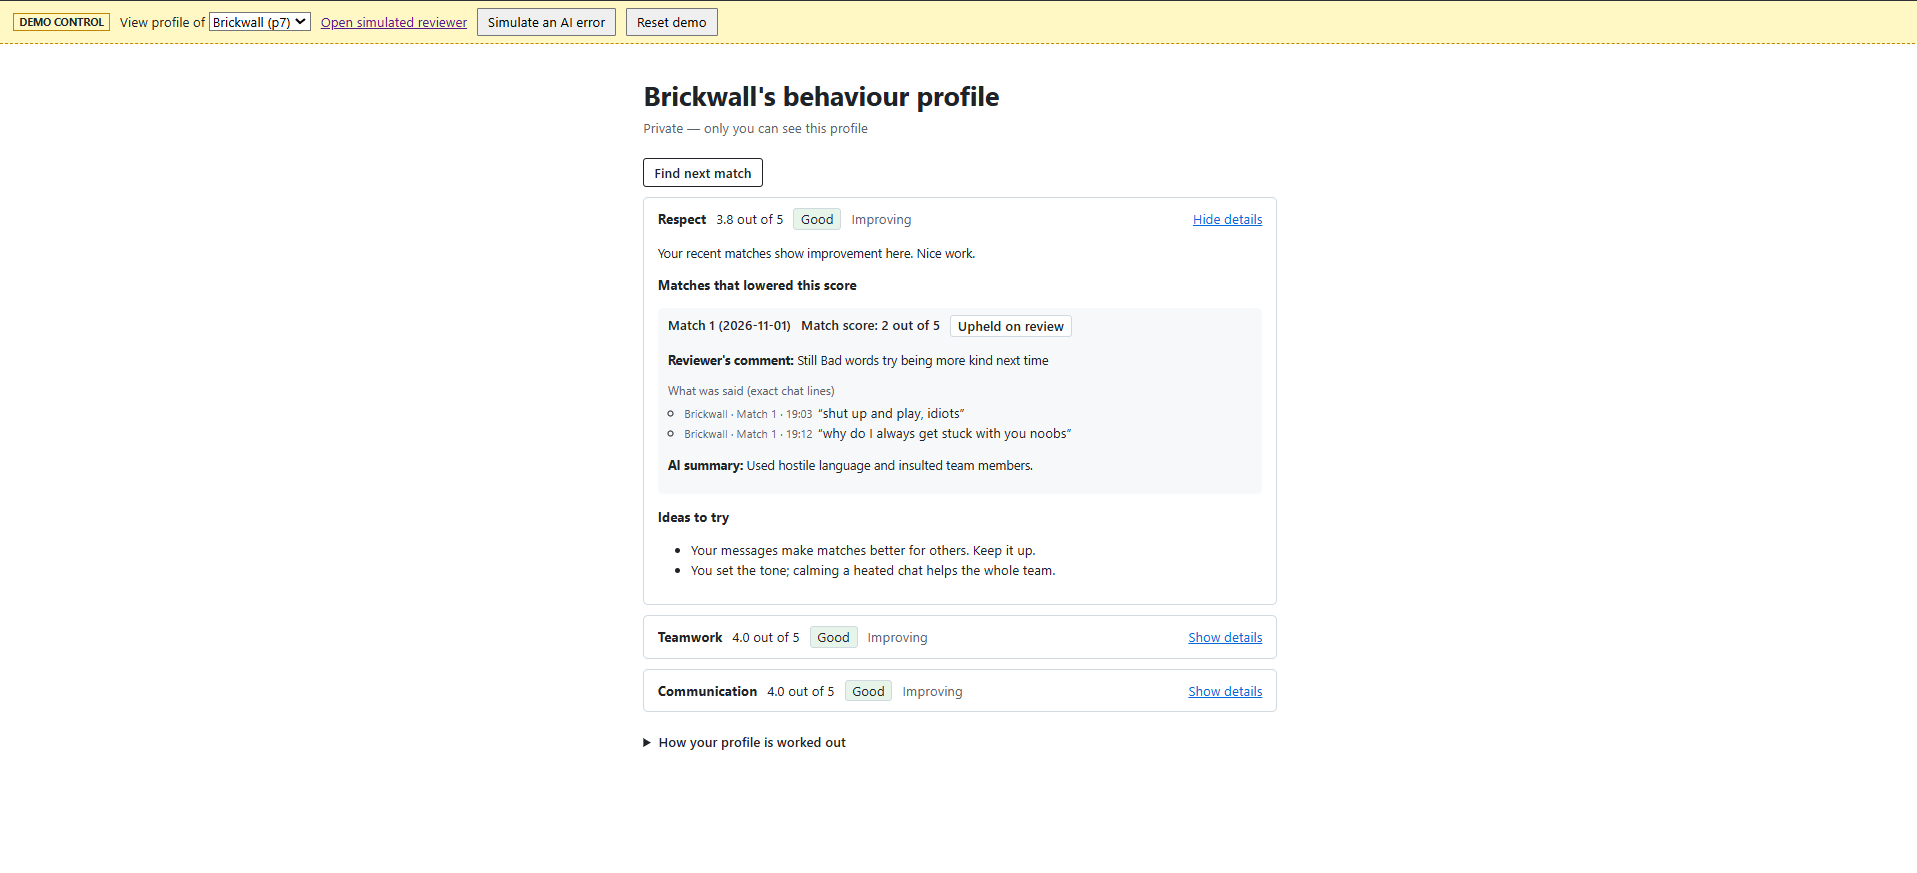
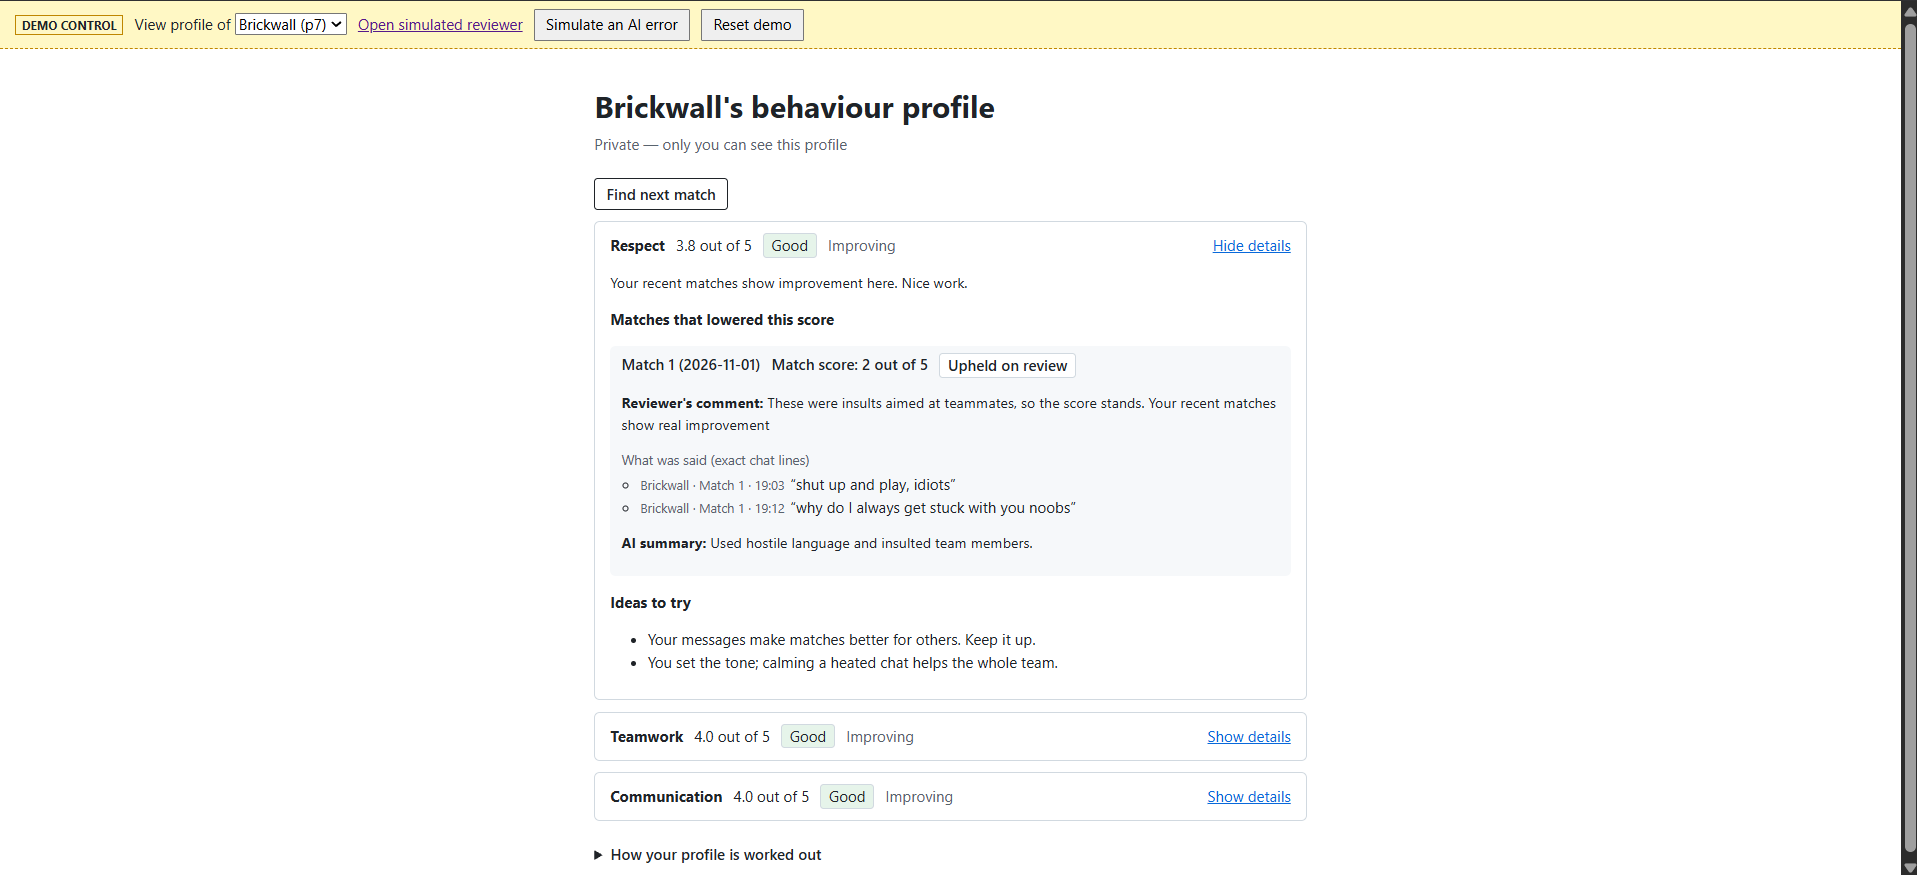
Fix copy: held-back AI scores are not sent to a reviewer; retake screenshots; add storyboards; update AI log

diff --git a/client/src/copy.ts b/client/src/copy.ts
@@ -41,8 +41,8 @@ export const copy = {
     aiSummaryLabel: "AI summary",
     underReview: (n: number) =>
       n === 1
-        ? "1 match score is with a person for review and is not counted yet."
-        : `${n} match scores are with a person for review and are not counted yet.`,
+        ? "1 match score was too uncertain to use, so it is not counted."
+        : `${n} match scores were too uncertain to use, so they are not counted.`,
     tipsHeading: "Ideas to try",
     improvingAck: "Your recent matches show improvement here. Nice work.",
   },
@@ -121,7 +121,7 @@ export const copy = {
     points: [
       "We look at your chat across your last 4 matches.",
       "Recent matches count more than older ones.",
-      "When the AI is unsure, a person checks before anything counts.",
+      "When the AI is unsure, that match score is not counted.",
       "If a match gave you a low score, you can challenge it and a person will review it.",
     ],
   },

diff --git a/server/test/profile.test.ts b/server/test/profile.test.ts
@@ -182,7 +182,7 @@ describe("challenge rules (D4)", () => {
   test("note over 200 characters is rejected", () => {
     reject({ note: "x".repeat(201) }, 400, /note is 201 characters \(max 200\)/);
   });
-  test("a match score already with a human reviewer cannot be challenged", () => {
+  test("a held-back match score cannot be challenged", () => {
     const results: MatchResultsFile = structuredClone(baseResults);
     results.matches[0].players.p2.respect.status = "needs_review";
     const r = new ChallengeStore(null).create({ playerId: "p2", dimension: "respect", matchId: "match_01", reason: "other" }, { players, results });

diff --git a/server/src/profile/challenges.ts b/server/src/profile/challenges.ts
@@ -76,7 +76,7 @@ export class ChallengeStore {
     const r = match.players[playerId]?.[dimension as Dimension];
     if (!r) return fail(404, `${playerId} did not play in ${matchId}`);
     if (r.status !== "accepted") {
-      return fail(400, "This match score is already with a human reviewer and does not count yet, so it cannot be challenged");
+      return fail(400, "This match score was held back because the AI was unsure, and it does not count, so it cannot be challenged");
     }
     if (r.score !== 1 && r.score !== 2) {
       return fail(400, `Only match scores of 1 or 2 can be challenged; this score is ${r.score}`);

diff --git a/server/src/scoring/types.ts b/server/src/scoring/types.ts
@@ -62,7 +62,7 @@ export interface DimensionProfile {
   trend: number | null; // mean(matches 3–4) − mean(matches 1–2), 1 decimal
   trendLabel: TrendLabel | null;
   contributions: MatchContribution[]; // accepted scores only
-  needsReviewCount: number; // match scores sent to human review by the validator
+  needsReviewCount: number; // match scores held back by the validator (not counted; reviewer queue planned)
   excludedCount: number; // match scores removed from aggregation (e.g. overturned on review)
 }
 

diff --git a/server/src/profile/build.ts b/server/src/profile/build.ts
@@ -32,7 +32,7 @@ export interface DimensionView {
   trend: TrendWord;
   expanded: boolean; // D7: low or declining
   loweringMatches: LoweringMatch[];
-  underReviewCount: number; // validator sent to a person: "not counted yet"
+  underReviewCount: number; // validator held back (low confidence or bad evidence): not counted; reviewer queue planned
   tips: string[]; // up to 2
   improvingAck: boolean;
 }

diff --git a/docs/build_storyboards.py b/docs/build_storyboards.py
@@ -1,0 +1,120 @@
+"""Builds the two ClearMatch storyboards from docs/screenshots/.
+Needs Pillow (pip install pillow).
+Usage, from the repo root: python docs/build_storyboards.py docs/screenshots docs"""
+import sys, os, textwrap
+from PIL import Image, ImageDraw, ImageFont, ImageChops
+
+SRC, OUT = sys.argv[1], sys.argv[2]
+# Inter if installed (Linux path), otherwise Windows Segoe UI / Arial, otherwise Pillow's default.
+FONT_CANDIDATES = {
+    "Regular":  ["/usr/share/fonts/opentype/inter/Inter-Regular.otf", "C:/Windows/Fonts/segoeui.ttf", "C:/Windows/Fonts/arial.ttf"],
+    "SemiBold": ["/usr/share/fonts/opentype/inter/Inter-SemiBold.otf", "C:/Windows/Fonts/seguisb.ttf", "C:/Windows/Fonts/arialbd.ttf"],
+    "Bold":     ["/usr/share/fonts/opentype/inter/Inter-Bold.otf", "C:/Windows/Fonts/segoeuib.ttf", "C:/Windows/Fonts/arialbd.ttf"],
+}
+def font(style, size):
+    for p in FONT_CANDIDATES[style]:
+        try: return ImageFont.truetype(p, size)
+        except OSError: pass
+    return ImageFont.load_default(size)
+F_TITLE, F_SUB, F_NUM, F_LBL, F_TXT, F_TAG = font("Bold",44), font("Regular",24), font("Bold",26), font("SemiBold",21), font("Regular",21), font("SemiBold",18)
+INK, MUTED, LINE = (27,27,27), (90,98,110), (214,220,228)
+GREEN, BLUE, AMBER, RED = (46,125,50), (21,101,192), (224,161,0), (198,40,40)
+
+def content_crop(path):
+    im = Image.open(path).convert("RGB")
+    w, h = im.size
+    px = im.load()
+    def yellowish(p): return p[0] > 245 and 235 < p[1] < 252 and 180 < p[2] < 215
+    # the demo bar (and any browser chrome above it) ends at the last yellow row near the top
+    ys = [y for y in range(min(160, h)) if yellowish(px[10, y])]
+    top = 0
+    if ys:
+        top = ys[0]
+        while top < h and (yellowish(px[10, top]) or top - ys[0] < 8): top += 1
+    top += 3  # dashed border under the bar
+    # drop a dark taskbar at the bottom
+    bottom = h
+    while bottom > top and sum(px[w//2, bottom-1]) < 300: bottom -= 1
+    # ignore a scrollbar at the right edge when finding content
+    region = im.crop((0, top, w - 24, bottom))
+    bg = Image.new("RGB", region.size, (255,255,255))
+    diff = ImageChops.difference(region, bg).convert("L").point(lambda v: 255 if v > 12 else 0)
+    box = diff.getbbox() or (0, 0, region.width, region.height)
+    pad = 28
+    box = (max(box[0]-pad,0), max(box[1]-pad,0), min(box[2]+pad,region.width), min(box[3]+pad,region.height))
+    return region.crop(box)
+
+def fit(im, bw, bh):
+    r = min(bw/im.width, bh/im.height)
+    return im.resize((max(1,int(im.width*r)), max(1,int(im.height*r))), Image.LANCZOS)
+
+def wrap(draw, text, fnt, width):
+    words, lines, cur = text.split(), [], ""
+    for wd in words:
+        t = (cur+" "+wd).strip()
+        if draw.textlength(t, font=fnt) <= width: cur = t
+        else: lines.append(cur); cur = wd
+    if cur: lines.append(cur)
+    return lines
+
+def board(title, subtitle, tag, tag_col, panels, outname, loop_note):
+    cols, pw, ih, cap_h, gap, m = 3, 760, 470, 175, 36, 60
+    rows = (len(panels)+cols-1)//cols
+    W = m*2 + cols*pw + (cols-1)*gap
+    head = 190
+    H = head + rows*(ih+cap_h+70) + (rows-1)*gap + m + 60
+    cv = Image.new("RGB", (W,H), (255,255,255)); d = ImageDraw.Draw(cv)
+    d.text((m, m-10), title, font=F_TITLE, fill=INK)
+    d.text((m, m+50), subtitle, font=F_SUB, fill=MUTED)
+    tw = d.textlength(tag, font=F_TAG)+28
+    d.rounded_rectangle((m, m+92, m+tw, m+126), 8, fill=(255,255,255), outline=tag_col, width=2)
+    d.text((m+14, m+99), tag, font=F_TAG, fill=tag_col)
+    for i,(fname, player, system, flag) in enumerate(panels):
+        r, c = divmod(i, cols)
+        x = m + c*(pw+gap); y = head + r*(ih+cap_h+70+gap)
+        d.rounded_rectangle((x, y, x+pw, y+ih+cap_h+60), 14, outline=LINE, width=2, fill=(250,251,253))
+        # number badge
+        d.ellipse((x+16, y+14, x+56, y+54), fill=INK)
+        n = str(i+1); d.text((x+36-d.textlength(n,font=F_NUM)/2, y+18), n, font=F_NUM, fill=(255,255,255))
+        if flag:
+            ft = flag; fw = d.textlength(ft, font=F_TAG)+20
+            d.rounded_rectangle((x+pw-fw-16, y+20, x+pw-16, y+50), 7, fill=(255,248,225), outline=AMBER, width=2)
+            d.text((x+pw-fw-6, y+25), ft, font=F_TAG, fill=(120,85,0))
+        img = fit(content_crop(os.path.join(SRC, fname)), pw-32, ih-20)
+        ix = x + (pw-img.width)//2; iy = y+66 + (ih-20-img.height)//2
+        cv.paste(img, (ix, iy)); d.rectangle((ix-1, iy-1, ix+img.width, iy+img.height), outline=LINE)
+        cy = y+66+ih
+        for lbl, txt, col in (("Player", player, BLUE), ("System", system, GREEN)):
+            if not txt: continue
+            d.text((x+20, cy), lbl, font=F_LBL, fill=col)
+            lines = wrap(d, txt, F_TXT, pw-130)
+            for j,l in enumerate(lines[:3]): d.text((x+110, cy+j*27), l, font=F_TXT, fill=INK)
+            cy += max(1,len(lines[:3]))*27 + 10
+    # loop note
+    d.text((m, H-m-20), loop_note, font=F_LBL, fill=RED)
+    os.makedirs(OUT, exist_ok=True); cv.save(os.path.join(OUT, outname), optimize=True)
+    print("wrote", outname, cv.size)
+
+board("Storyboard 1 · A real AI judgement, challenged and upheld",
+      "Brickwall (p7) questions a low match score; a reviewer keeps it but explains why.",
+      "REAL AI RESULT · live run 4, Gemini 3.5 Flash-Lite", GREEN,
+      [("s1-01-profile.png", "Opens their private profile.", "Respect 3.8, Good, Improving. Match 1 lowered it: exact chat lines plus a labelled AI summary.", None),
+       ("s1-02-challenge-form.png", "Clicks “Challenge this score” and picks a reason.", "Offers fixed reasons and an optional note (200 characters).", None),
+       ("s1-03-under-review.png", "Submits the challenge.", "Shows “Challenged — under review”; the score still counts while pending.", None),
+       ("s1-04-reviewer.png", None, "Reviewer sees the AI's proposal (2 of 5, confidence 0.90) and each evidence line with 2 messages before and after.", None),
+       ("s1-05-upheld.png", "Reads the decision.", "“Upheld on review” with the reviewer's comment; the decision is final.", None),
+       ("s1-06-lobby.png", "Clicks “Find next match”.", "Shows both teams (names only) and private reasons: teams balanced by teamwork.", None)],
+      "storyboard-1-upheld.png",
+      "Control: the player can contest; a human decides; the explanation stays visible.")
+
+board("Storyboard 2 · An AI error, challenged and overturned",
+      "Havoc (p5) is wrongly marked down for game language; overturning it restores the profile and the lobby explanation.",
+      "SIMULATED AI ERROR · injected with a labelled demo control", AMBER,
+      [("s2-01-lobby-before.png", "Checks the next match.", "Private reasons: players they muted or reported are not on their team; teams balanced by teamwork.", None),
+       ("s2-03-profile-low.png", "Opens their profile.", "Respect 2.3, Low, Declining. Match 3 cites “gonna kill it this round”.", "simulated error"),
+       ("s2-04-lobby-low.png", "Finds the next match again.", "Adds: “Your Respect is currently Low…” and “not every fairness rule could be met”.", "simulated error"),
+       ("s2-05-reviewer.png", None, "Reviewer sees the lines in context (“stay with me”, “gg wp”): game calls, not threats. Overturns.", "simulated error"),
+       ("s2-06-overturned.png", "Returns to the profile.", "“Overturned on review — this match no longer counts”; Respect recalculated to 3.0, Neutral.", None),
+       ("s2-07-lobby-after.png", "Finds the next match.", "The Low and fairness messages are gone; same teams, explanation restored.", None)],
+      "storyboard-2-overturned.png",
+      "Closed loop: challenge → human review → profile recalculated → next lobby explanation changes.")

diff --git a/README.md b/README.md
@@ -115,7 +115,7 @@ The full record, with what was checked for each change, is in [docs/development-
 Details, with what I kept or changed each time, are in [docs/ai-usage-log.md](docs/ai-usage-log.md).
 
 - **Claude Code** wrote most of the code, tests, synthetic data and log drafts, following design decisions I specified in phased prompts. I reviewed each phase before committing and ran the tests and browser walkthroughs.
-- **Claude (chat)** helped plan the schedule, find and check sources, draft the decision matrix, concept statement, improvement tips and the system diagram, and advise on test results.
+- **Claude (chat)** helped plan the schedule, find and check sources, draft the decision matrix, concept statement, improvement tips, the system diagram, the storyboard layout and captions, and advise on test results. It also found UI text that wrongly said uncertain AI scores go to a person, which I then fixed.
 - **My own decisions and edits:** the matchmaking focus and journey; the prompt's context rules; the trend threshold, model choice, stopping at prompt v2, upheld-is-final and the demo data; the party-report case and the reflection-chatbot idea.
 - **Checks:** 90 automated tests; live runs compared against my expected outcomes; sources checked against the papers and official pages; claims without a source removed.
 - **Gemini 3.5 Flash-Lite** is the model inside the system that proposes behaviour scores.
@@ -127,6 +127,7 @@ Details, with what I kept or changed each time, are in [docs/ai-usage-log.md](do
 - `docs/development-log.md` and `docs/ai-usage-log.md`: development record and AI use.
 - `docs/expected-outcomes.md` and `docs/test-results-day3.md`: expected results per test case and the four live runs.
 - `docs/screenshots/`: screenshots of both demo stories.
+- `docs/storyboard-1-upheld.png`, `docs/storyboard-2-overturned.png`: the two storyboards, built from the screenshots by `docs/build_storyboards.py` (drafted with Claude).
 - `docs/system-diagram.png` / `.svg`: system diagram; `docs/system-diagram.mmd`: its Mermaid source (drafted with Claude, checked against the code).
 - `data/matches/`, `data/players.json`: synthetic chat logs; `data/README.md` maps test cases A–H to message IDs.
 - `data/demo/run4-match-results.json`: live run 4 results used by the demo.

diff --git a/docs/ai-usage-log.md b/docs/ai-usage-log.md
@@ -11,3 +11,5 @@
 | 2026-11-14 | Claude (chat) | Write the improvement tips and how-it-works sentence | Claude drafted all 18 tips and the sentence; I reviewed them and kept them as written | Viewed profiles in the browser to check the right tips appear |
 | 2026-11-14 | Claude Code | Build matchmaking, lobby page, simulated error control, demo script | Followed my decisions M1–M9. When the teams could not change with 8 players, I chose to keep the protection rule rather than let reports expire, and to commit run 4 results as demo data. Added a private "own Respect is Low" reason after seeing Havoc's vague explanation. Accepted the "(you)" marker; reworded the lobby privacy line and the low-Respect reason | 90 tests passed; both stories walked through in the browser; fresh-clone check with output/ removed; demo run without .env |
 | 2026-11-14 | Claude (chat) | Explain and advise on the matchmaking design and Day 5 results | I raised the case of troll-reporting a party friend and suggested a reflection chatbot to unlock chat (planned). Claude recommended spreading low-Respect players, the party exception, one role per dimension, keeping the protection rule and committing the run 4 data, and suggested the two lobby wordings; I accepted them | Checked the simulated-error arithmetic and each Claude Code report before committing |
+| 2026-11-19 | Claude (chat) | Fill the four empty README sections; draft the system diagram; check my screenshots; check README claims | Claude wrote the README sections and the Mermaid diagram; I asked for a cleaner layout and kept it. Claude found the case E caveat missing from the README; I added it | Checked the diagram's boxes and arrows against the code; reread the README on GitHub |
+| 2026-11-21 | Claude (chat) | Build storyboards from my screenshots; check the UI wording about uncertain AI scores | Claude drafted the storyboard layout, captions and `build_storyboards.py`; I kept them. Claude found that the profile text said held-back AI scores go to a person, but no such queue exists; I had Claude Code change the wording in four places | Checked each caption against the running app; reviewed the diff; 90 tests passed |
